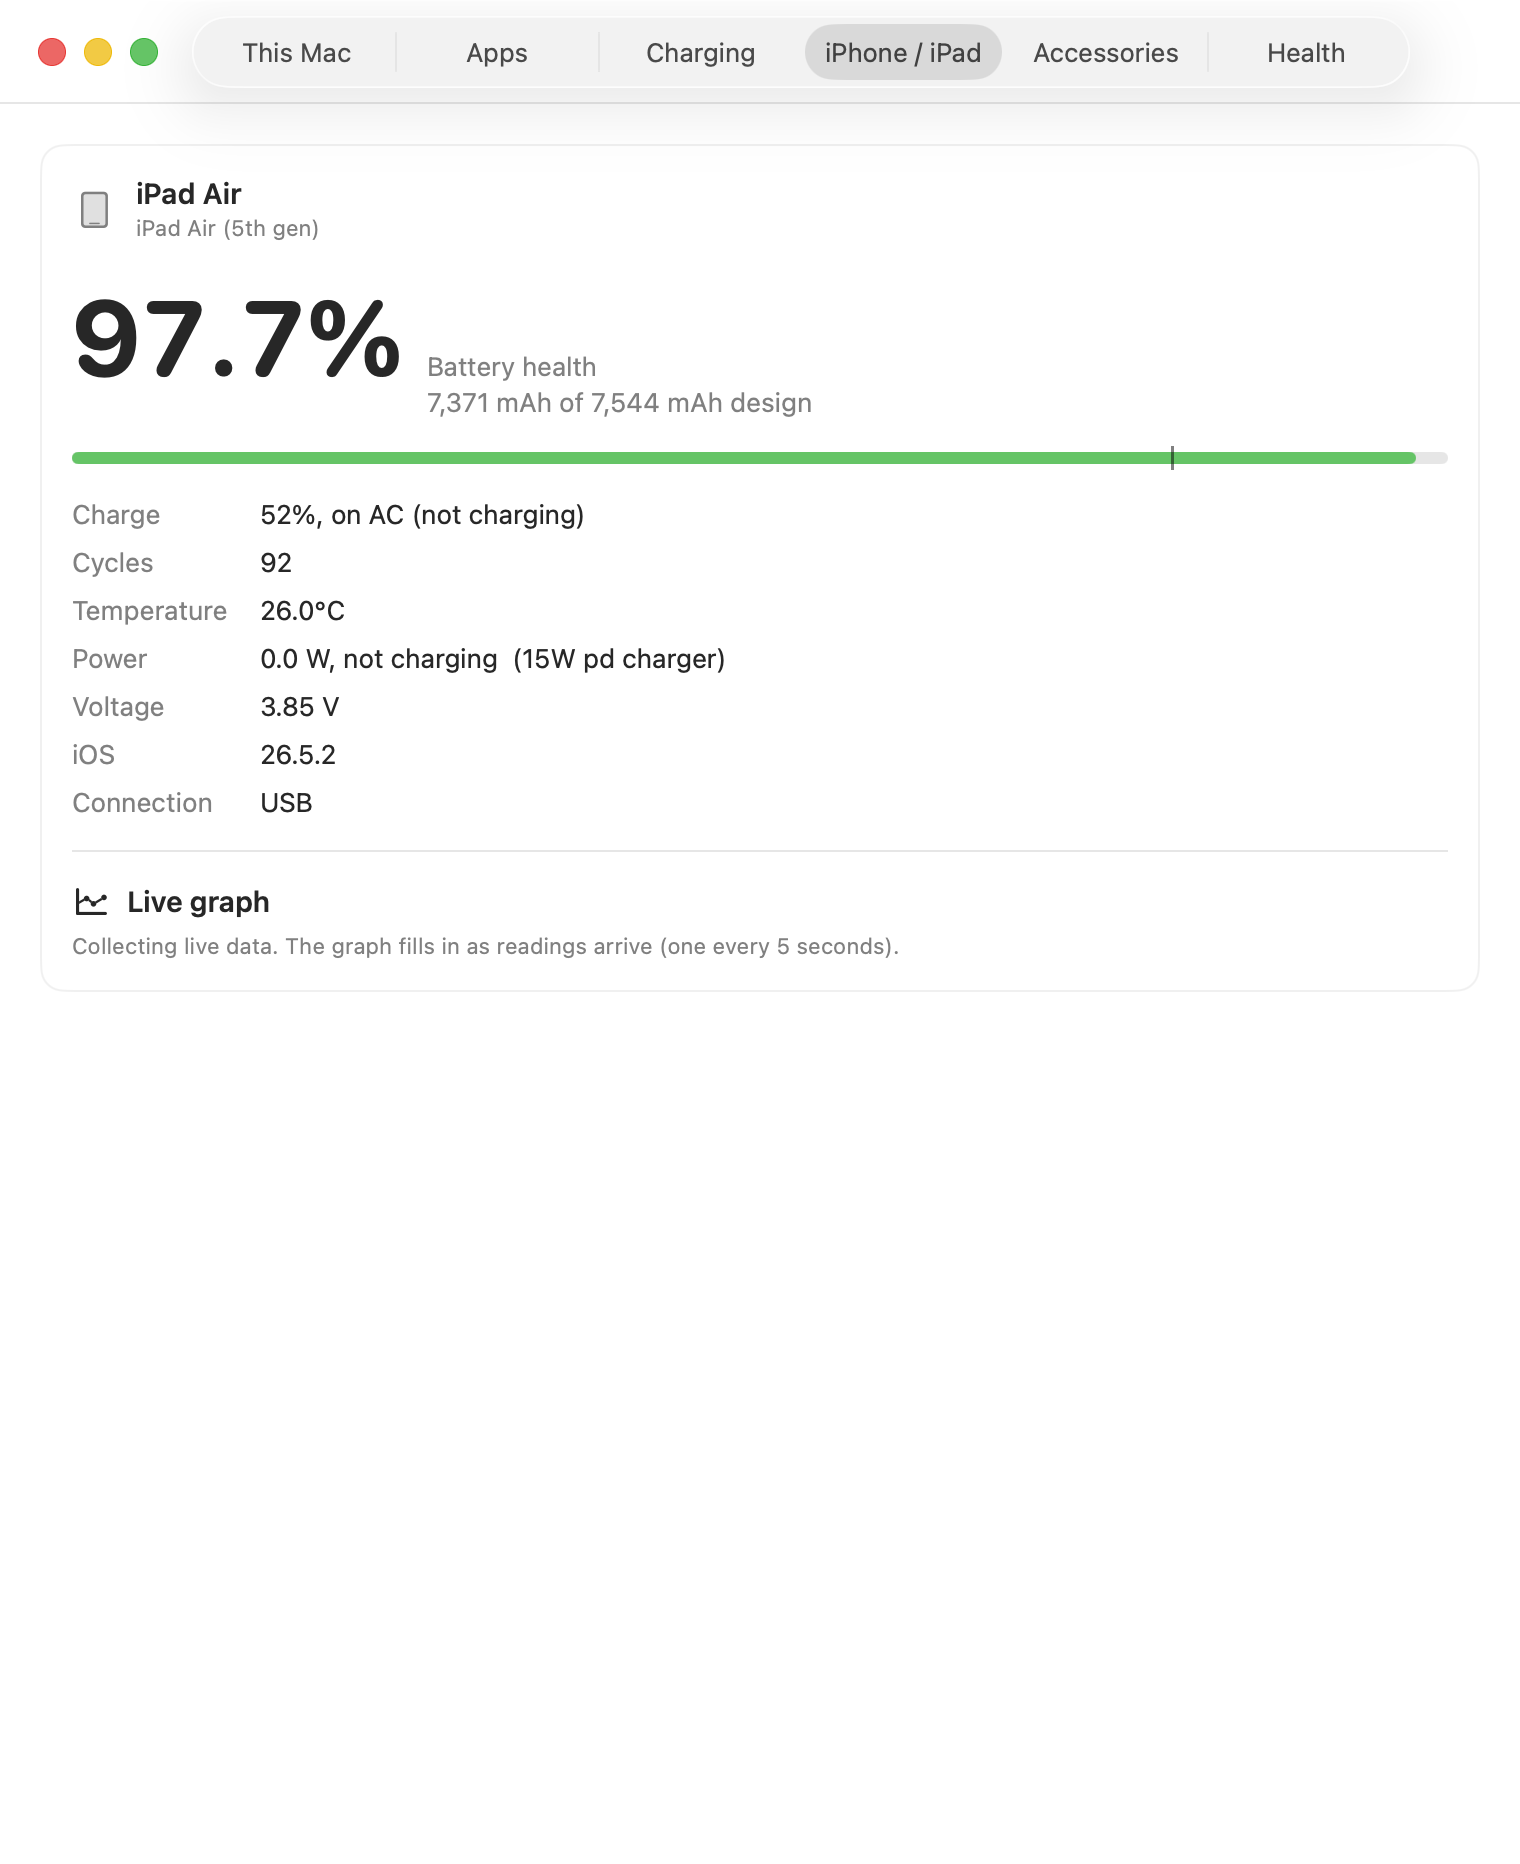
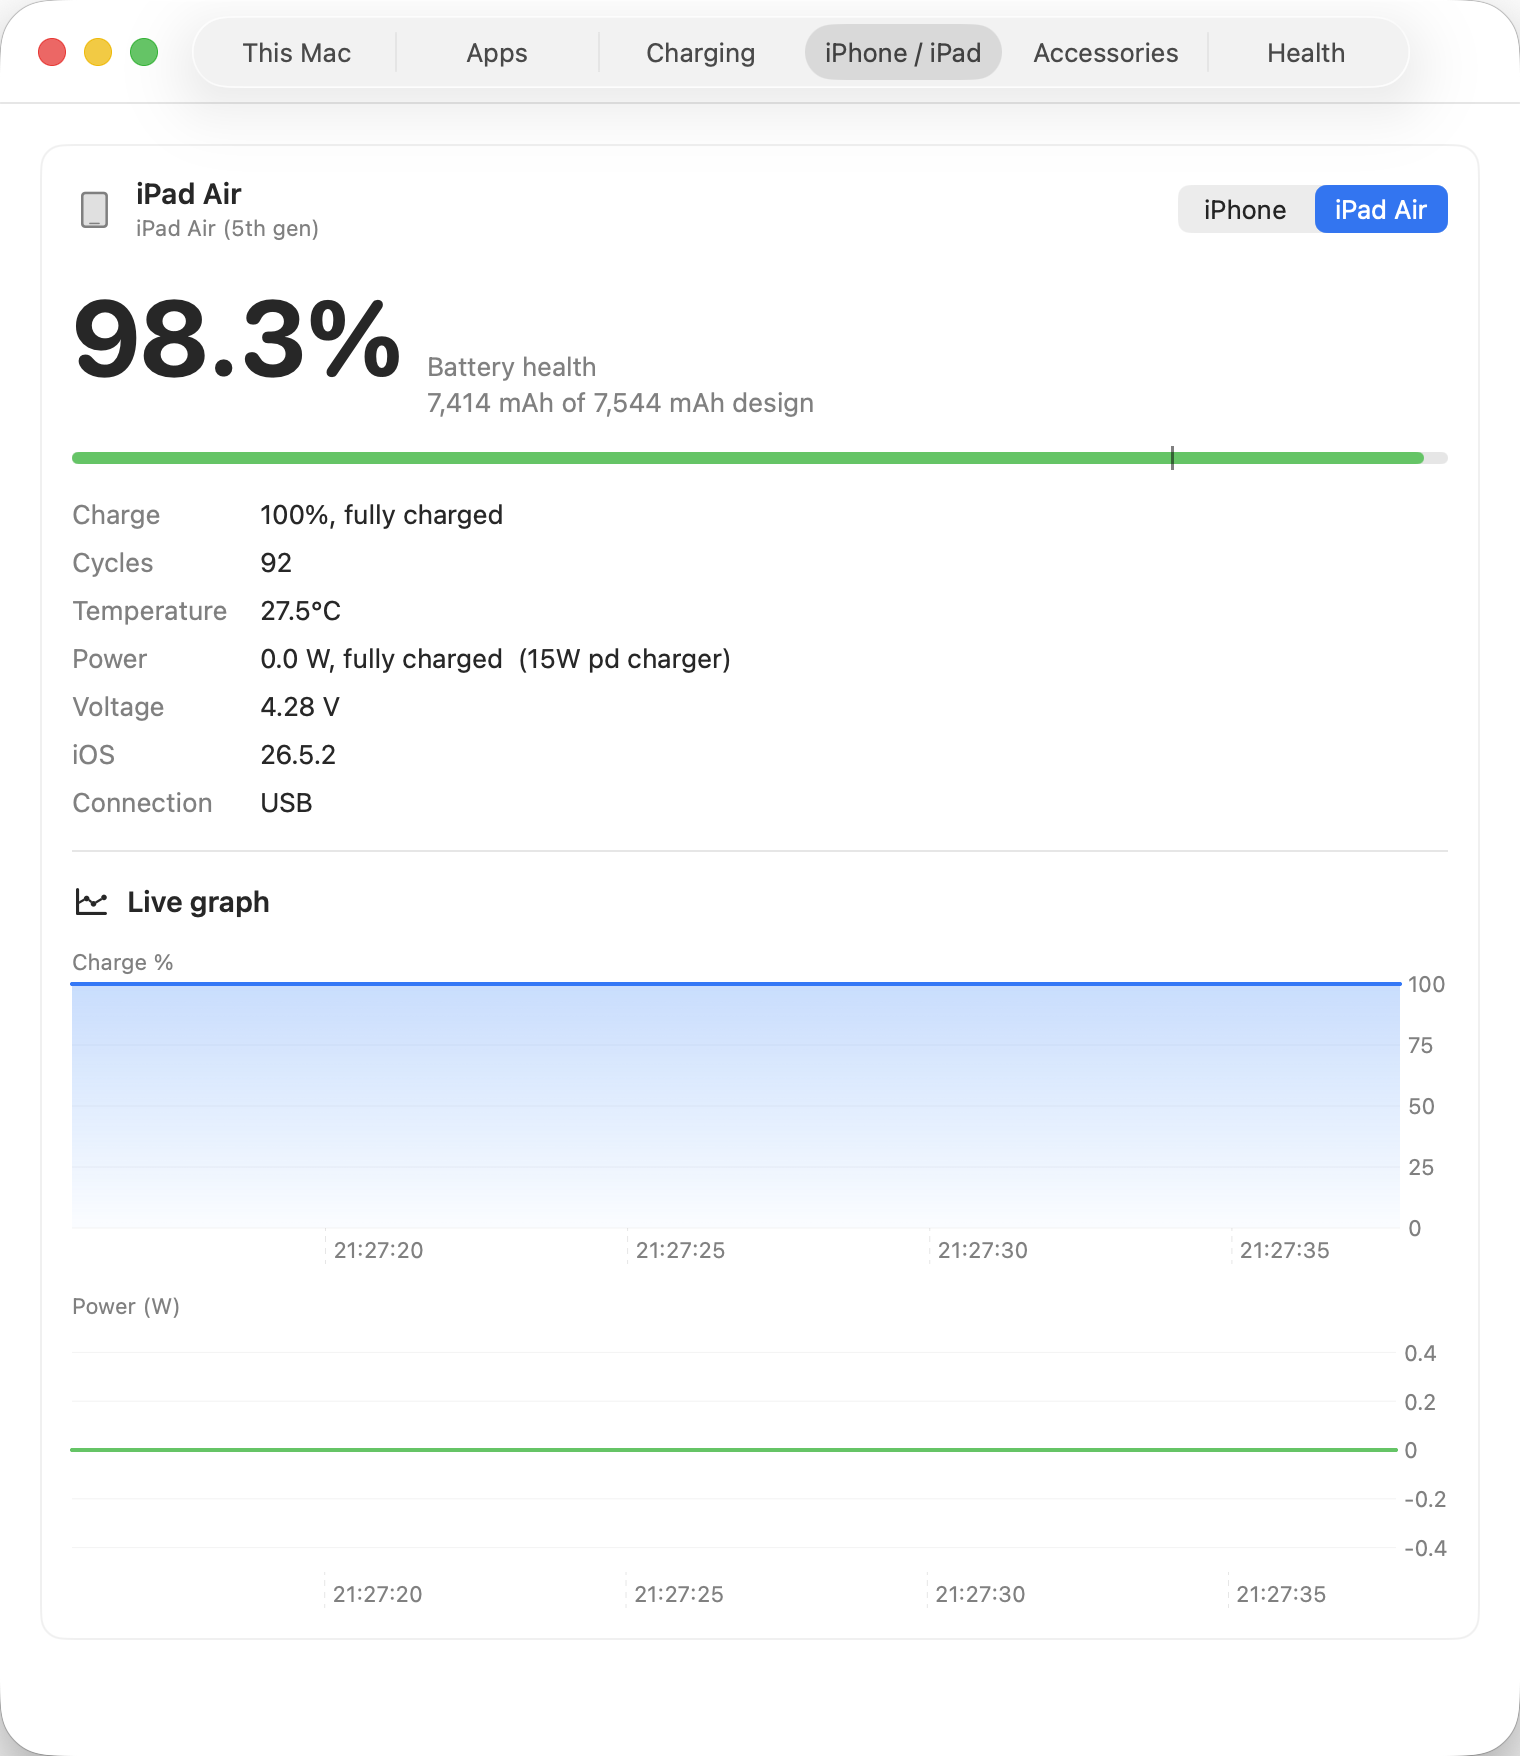
Mirror from private (011758c)

diff --git a/docs/pro/index.html b/docs/pro/index.html
@@ -51,6 +51,13 @@
 
 <header class="page-hero"><div class="wrap"><nav class="breadcrumbs" aria-label="Breadcrumb"><a href="/">Home</a><span>/</span><span>Pro</span></nav><span class="section-tag">WhatBattery Pro</span><h1>Track every battery you own for years.</h1><p class="lede">Turn today's reading into a long-term record, a replacement forecast, a charger diagnosis, and evidence you can export. £9.99 once, for up to two Macs.</p><div class="actions"><button class="button buy" type="button" data-buy-pro>Buy WhatBattery Pro · £9.99</button><a class="button secondary" href="#compare">Compare Free and Pro</a></div><div class="meta-row"><span>One-time purchase</span><span>14-day money-back guarantee</span><span>Secure checkout via Stripe</span></div><p class="buy-error" data-buy-error role="alert" hidden></p></div></header>
 
+
+<section class="soft-section"><div class="wrap feature-lead"><div class="feature-copy"><span class="section-tag">The long view</span><h2>Know whether 91% is stable or on the way down quickly.</h2><p>A single health figure has no direction. Pro keeps the history needed to show whether wear is gradual, accelerating, or approaching the point where a replacement deserves planning.</p><ul class="benefit-list"><li>Lifetime Analyzer for power, temperature, voltage, and charge</li><li>Monthly health and cycle history per device</li><li>Battery runway forecast for Macs</li><li>Smart alerts for unusual wear and charging conditions</li></ul></div><img src="/img/screenshot-history.png" alt="WhatBattery Pro health history and battery runway" width="440" loading="lazy" /></div></section>
+
+<section><div class="wrap feature-lead"><img src="/img/screenshot-charging.png" alt="WhatBattery Pro charging sessions and charger verdicts" width="440" loading="lazy" /><div class="feature-copy"><span class="section-tag">Diagnosis with receipts</span><h2>See what drained it and how the charger performed.</h2><p>Apps are ranked in real watts rather than a unitless energy score. Charging sessions preserve the delivered power, heat, and charger capability, so the diagnosis does not disappear as soon as you unplug.</p><ul class="benefit-list"><li>Live and historical app power</li><li>Charge-session history</li><li>Charger capability verdict</li><li>Thirty-day charging-habit summary</li><li>Threshold and wear-driven alerts</li></ul></div></div></section>
+
+<section class="soft-section"><div class="wrap feature-lead"><div class="feature-copy"><span class="section-tag">All your devices</span><h2>Bring the iPhone and iPad into the same record.</h2><p>Read connected-device health over USB or Wi-Fi without installing another app. Pro retains sparse, long-term health and cycle history so the devices do not vanish from view when they disconnect.</p><ul class="benefit-list"><li>Health, cycles, temperature, voltage, and live power</li><li>Current-session graph</li><li>Long-term monthly health record</li><li>Mac and connected-device history in one tab</li></ul></div><img src="/img/screenshot-idevice.png" alt="WhatBattery Pro showing a connected iPad Air's battery health, with a picker to switch to the iPhone" width="440" loading="lazy" /></div></section>
+
 <section><div class="wrap"><div class="section-head center"><span class="section-tag">Five reasons to go Pro</span><h2>Forecast, diagnose, track, prove, and know before it dies.</h2><p>Pro groups the deeper features around the decisions they help you make.</p></div><div class="card-grid two">
   <article class="card"><div class="card-icon" aria-hidden="true">↘</div><h3>Forecast the replacement</h3><p>Measure wear rate, project the window in which a Mac may reach 80% health, and catch a battery that starts ageing faster than its own trend. No projection at all until the history can support one.</p><a class="text-link" href="/features/history/">Explore battery runway →</a></article>
   <article class="card"><div class="card-icon" aria-hidden="true">W</div><h3>Diagnose the drain</h3><p>Rank your apps by live watts, keep the top users over time, and record how every charge performs. Supported MacBook Pro models also identify chargers that are clearly undersized.</p><a class="text-link" href="/features/power/">Explore power analysis →</a></article>
@@ -59,13 +66,7 @@
   <article class="card"><div class="card-icon" aria-hidden="true">BT</div><h3>Know before it dies</h3><p>Watch every Bluetooth accessory's level over time, see how long is left (days for a mouse, listening time for AirPods), and get the warning before it dies, not after.</p><a class="text-link" href="/features/accessories/">Explore accessory forecasts →</a></article>
 </div></div></section>
 
-<section class="soft-section"><div class="wrap feature-lead"><div class="feature-copy"><span class="section-tag">The long view</span><h2>Know whether 91% is stable or on the way down quickly.</h2><p>A single health figure has no direction. Pro keeps the history needed to show whether wear is gradual, accelerating, or approaching the point where a replacement deserves planning.</p><ul class="benefit-list"><li>Lifetime Analyzer for power, temperature, voltage, and charge</li><li>Monthly health and cycle history per device</li><li>Battery runway forecast for Macs</li><li>Smart alerts for unusual wear and charging conditions</li></ul></div><img src="/img/screenshot-history.png" alt="WhatBattery Pro health history and battery runway" width="440" loading="lazy" /></div></section>
-
-<section><div class="wrap feature-lead"><img src="/img/screenshot-charging.png" alt="WhatBattery Pro charging sessions and charger verdicts" width="440" loading="lazy" /><div class="feature-copy"><span class="section-tag">Diagnosis with receipts</span><h2>See what drained it and how the charger performed.</h2><p>Apps are ranked in real watts rather than a unitless energy score. Charging sessions preserve the delivered power, heat, and charger capability, so the diagnosis does not disappear as soon as you unplug.</p><ul class="benefit-list"><li>Live and historical app power</li><li>Charge-session history</li><li>Charger capability verdict</li><li>Thirty-day charging-habit summary</li><li>Threshold and wear-driven alerts</li></ul></div></div></section>
-
-<section class="soft-section"><div class="wrap feature-lead"><div class="feature-copy"><span class="section-tag">All your devices</span><h2>Bring the iPhone and iPad into the same record.</h2><p>Read connected-device health over USB or Wi-Fi without installing another app. Pro retains sparse, long-term health and cycle history so the devices do not vanish from view when they disconnect.</p><ul class="benefit-list"><li>Health, cycles, temperature, voltage, and live power</li><li>Current-session graph</li><li>Long-term monthly health record</li><li>Mac and connected-device history in one tab</li></ul></div><img src="/img/screenshot-idevice.png" alt="WhatBattery Pro iPhone battery view" width="440" loading="lazy" /></div></section>
-
-<section id="compare"><div class="wrap"><div class="section-head center"><span class="section-tag">Free versus Pro</span><h2>The free app answers “what is happening now?” Pro keeps the story.</h2></div><div class="comparison" role="table" aria-label="WhatBattery Free and Pro comparison">
+<section id="compare" class="soft-section"><div class="wrap"><div class="section-head center"><span class="section-tag">Free versus Pro</span><h2>The free app answers “what is happening now?” Pro keeps the story.</h2></div><div class="comparison" role="table" aria-label="WhatBattery Free and Pro comparison">
   <div class="comparison-row" role="row"><span role="columnheader">Capability</span><span role="columnheader">Free</span><span role="columnheader">Pro</span></div>
   <div class="comparison-row" role="row"><span role="cell">Mac health, cycles, condition, live watts, temperature</span><span class="yes" role="cell">Included</span><span class="yes" role="cell">Included</span></div>
   <div class="comparison-row" role="row"><span role="cell">Live Bluetooth accessory levels</span><span class="yes" role="cell">Included</span><span class="yes" role="cell">Included</span></div>
@@ -80,7 +81,7 @@
   <div class="comparison-row" role="row"><span role="cell">Anonymous wear comparison (opt-in, off by default)</span><span class="dash" role="cell">Not included</span><span class="yes" role="cell">Included</span></div>
 </div></div></section>
 
-<section class="soft-section"><div class="wrap pricing-layout"><div><span class="section-tag">One simple licence</span><h2>No subscription. No separate device plan.</h2><p class="lede">One key unlocks Pro on up to two Macs. Paste it into Settings on each Mac and keep using the same key after updates.</p><div class="faq-list" style="margin-top:32px;"><div class="faq-item"><h3>What happens after purchase?</h3><p>Stripe completes the payment and the licence key is emailed immediately. Paste it into WhatBattery's Licence settings.</p></div><div class="faq-item"><h3>What if I replace a Mac?</h3><p>Contact support through the GitHub repository and a licence slot can be freed for the replacement.</p></div><div class="faq-item"><h3>What if Pro is not right for me?</h3><p>Purchases have a 14-day money-back guarantee, no questions asked.</p></div></div></div><aside class="pricing-card" aria-label="WhatBattery Pro price"><span class="card-label">One-time purchase</span><span class="price">£9.99</span><span class="price-note">Works on up to 2 Macs</span><ul class="benefit-list"><li>Every Pro feature</li><li>Future updates to the purchased app</li><li>Licence key delivered by email</li><li>14-day money-back guarantee</li></ul><button class="button buy" type="button" data-buy-pro>Buy WhatBattery Pro</button><p class="buy-note">Secure checkout via Stripe.</p><p class="buy-error" data-buy-error role="alert" hidden></p></aside></div></section>
+<section><div class="wrap pricing-layout"><div><span class="section-tag">One simple licence</span><h2>No subscription. No separate device plan.</h2><p class="lede">One key unlocks Pro on up to two Macs. Paste it into Settings on each Mac and keep using the same key after updates.</p><div class="faq-list" style="margin-top:32px;"><div class="faq-item"><h3>What happens after purchase?</h3><p>Stripe completes the payment and the licence key is emailed immediately. Paste it into WhatBattery's Licence settings.</p></div><div class="faq-item"><h3>What if I replace a Mac?</h3><p>Contact support through the GitHub repository and a licence slot can be freed for the replacement.</p></div><div class="faq-item"><h3>What if Pro is not right for me?</h3><p>Purchases have a 14-day money-back guarantee, no questions asked.</p></div></div></div><aside class="pricing-card" aria-label="WhatBattery Pro price"><span class="card-label">One-time purchase</span><span class="price">£9.99</span><span class="price-note">Works on up to 2 Macs</span><ul class="benefit-list"><li>Every Pro feature</li><li>Future updates to the purchased app</li><li>Licence key delivered by email</li><li>14-day money-back guarantee</li></ul><button class="button buy" type="button" data-buy-pro>Buy WhatBattery Pro</button><p class="buy-note">Secure checkout via Stripe.</p><p class="buy-error" data-buy-error role="alert" hidden></p></aside></div></section>
 
 <section class="cta-band"><div class="wrap cta-grid"><div><h2>Keep enough history to know what comes next.</h2><p>Unlock WhatBattery Pro once on up to two Macs.</p></div><button class="button primary" type="button" data-buy-pro>Buy Pro · £9.99</button></div></section>
 

diff --git a/docs/features/iphone-ipad/index.html b/docs/features/iphone-ipad/index.html
@@ -51,7 +51,7 @@
 
 <header class="page-hero"><div class="wrap"><nav class="breadcrumbs" aria-label="Breadcrumb"><a href="/">Home</a><span>/</span><a href="/features/">Features</a><span>/</span><span>iPhone and iPad</span></nav><span class="section-tag">iPhone and iPad · Pro</span><h1>Read the battery without installing another app on it.</h1><p class="lede">Connect an iPhone or iPad to your Mac once, then see its health, cycles, temperature, voltage, and live power over USB or Wi-Fi.</p><div class="actions"><a class="button primary" href="/pro/">Get WhatBattery Pro</a><a class="button secondary" href="/docs/iphone-ipad/">Read the connection guide</a></div></div></header>
 
-<section><div class="wrap feature-lead"><div class="feature-copy"><span class="section-tag">The same useful view</span><h2>Your Mac becomes the battery dashboard.</h2><p>WhatBattery uses the diagnostics connection Finder already understands. After the one-time trust step, a supported iPhone or iPad appears in the app with the same health maths used for the Mac.</p><ul class="benefit-list"><li>Health and raw capacity</li><li>Cycle count and charge state</li><li>Temperature, voltage, and live power</li><li>USB or Wi-Fi after the first pairing</li><li>No device-side app or account</li></ul></div><img src="/img/screenshot-idevice.png" alt="WhatBattery showing iPhone battery health, cycles, charge, temperature, voltage, and live readings over Wi-Fi" width="440" /></div></section>
+<section><div class="wrap feature-lead"><div class="feature-copy"><span class="section-tag">The same useful view</span><h2>Your Mac becomes the battery dashboard.</h2><p>WhatBattery uses the diagnostics connection Finder already understands. After the one-time trust step, a supported iPhone or iPad appears in the app with the same health maths used for the Mac.</p><ul class="benefit-list"><li>Health and raw capacity</li><li>Cycle count and charge state</li><li>Temperature, voltage, and live power</li><li>USB or Wi-Fi after the first pairing</li><li>No device-side app or account</li></ul></div><img src="/img/screenshot-idevice.png" alt="WhatBattery showing a connected iPad's battery health, cycles, charge, temperature, voltage, and live power" width="440" /></div></section>
 
 <section class="soft-section"><div class="wrap"><div class="section-head"><span class="section-tag">Three steps</span><h2>Pair once. Read whenever the device is available.</h2></div><div class="card-grid"><article class="card"><div class="card-icon">1</div><h3>Connect with a cable</h3><p>Unlock the device and tap Trust. The first pairing cannot be completed wirelessly.</p></article><article class="card"><div class="card-icon">2</div><h3>Enable Wi-Fi visibility</h3><p>In Finder, choose “Show this iPhone when on Wi-Fi” and apply the setting.</p></article><article class="card"><div class="card-icon">3</div><h3>Open the device tab</h3><p>WhatBattery reads the available battery data. If iOS changes a field, it reports the device as unreadable rather than showing a bogus number.</p></article></div></div></section>
 
